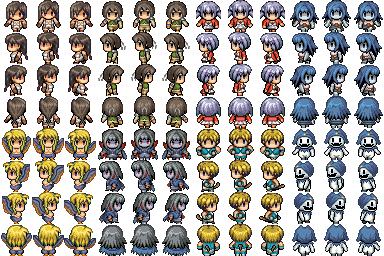
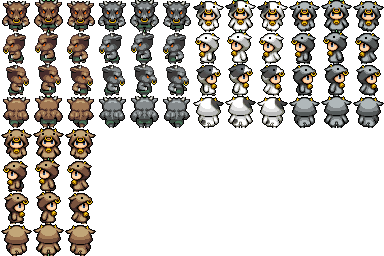
Add level effect to hero

diff --git a/src/model/monster/MonsterDen.java b/src/model/monster/MonsterDen.java
@@ -22,6 +22,7 @@ import model.items.Weapons;
 import sharedObj.IRenderable;
 import sharedObj.RenderableHolder;
 import utility.InputUtility;
+import utility.Pair;
 import utility.RandomUtility;
 import utility.ResourceLoader;
 
@@ -31,6 +32,7 @@ public class MonsterDen {
 	private static Thread monsterThread;
 	private int monsterCount;
 	private int maxMonster;
+	private int dunLvl;
 
 	public MonsterDen() {
 		monsterCount = 0;
@@ -106,7 +108,7 @@ public class MonsterDen {
 			}
 			this.monsterCount = maxMonster;
 			Dungeon.getEntitiesHolder().stream().filter(i -> i instanceof Monster).map(i -> (Monster) i)
-					.forEach(GameObject::destroyed);
+					.forEach(m->m.setAlive(false));
 			Dungeon.getEntitiesHolder().stream().filter(i -> i instanceof Monster).map(i -> (Monster) i)
 					.forEach(Dungeon::destroyEntities);
 		}else if(InputUtility.isKeyPressed(KeyCode.K)) { //instance buy staff
@@ -118,7 +120,7 @@ public class MonsterDen {
 		
 		}else if(InputUtility.isKeyPressed(KeyCode.M)) { //money hag
 			GameLogic.hero.earnMoney(999999);
-		}
+		}		
 	}
 	
 	private Image monsterImg(int i) {
@@ -127,9 +129,24 @@ public class MonsterDen {
 		return ResourceLoader.monsterImage[i-1];
 	}
 
+	public void setDunLvl(int dunLvl) {
+		this.dunLvl = dunLvl;
+	}
+	
+//	public void genMonster(int img,int row,int col,int mass,int size) {
+//		int hp = (int) (Math.pow(15.0,(3-img%3))+((4-col)*100)/(row+1));
+//		new Monster(monsterImg(img), row, col, 
+//				(mass/10 /(row+1)*(4-col)), mass, 
+//				hp, hp*(3-img%3)/20, atkType, 
+//				idleParameter, timidParaneter, persistentParameter, 
+//				eyesight, bounty, size);
+//	}
+
 	private void addMonster() throws InstantiationException, IllegalAccessException, IllegalArgumentException,
 			InvocationTargetException, SecurityException {
 		if(RenderableHolder.getInstance().size()>=35) return;
+		
+		
 		Dungeon.addEntities(new Monster(monsterImg(2), 0, 1,
 				4, 70, 100, 30, new Strength(),
 				70, 2, 50, 30, 15, 1));

diff --git a/src/Main/Main.java b/src/Main/Main.java
@@ -14,27 +14,32 @@ import view.SceneManeger;
 
 public class Main extends Application {
 	public static boolean isGameRunning;
+
 	@Override
 	public void start(Stage primaryStage) {
 		try {
-			isGameRunning=true;
+			isGameRunning = true;
 			SceneManeger.initialize(primaryStage);
 			SceneManeger.gotoScene(SceneManeger.mainScene);
-			
+
 			primaryStage.setTitle("RabbikoRPG");
 			primaryStage.centerOnScreen();
 			primaryStage.setResizable(false);
 		} catch (Exception e) {
 			e.printStackTrace();
-		}		
+		}
 	}
-	
+
 	@Override
 	public void stop() throws Exception {
-		isGameRunning=false;
-		DungeonMain.stop();
-		MonsterDen.stop();
-		Platform.exit();
+		try {
+			DungeonMain.stop();
+			MonsterDen.stop();
+		} catch (NullPointerException e) {
+		} finally {
+			isGameRunning = false;
+			Platform.exit();
+		}
 	}
 
 	public static void main(String[] args) {

diff --git a/src/model/entity/Hero.java b/src/model/entity/Hero.java
@@ -75,6 +75,7 @@ public class Hero extends DungeonableEntity<Attribute> {
 	public void update() {
 		super.update();
 		if (isAlive && dmgTimer == 0) {
+			if(GameLogic.dungeon.getLvl()%10==0) restoreHp();
 			if (InputUtility.isKeyPressed(KeyCode.W) || InputUtility.isKeyPressed(KeyCode.UP))
 				move(Entity.BACK);
 			if (InputUtility.isKeyPressed(KeyCode.S) || InputUtility.isKeyPressed(KeyCode.DOWN))
@@ -148,6 +149,11 @@ public class Hero extends DungeonableEntity<Attribute> {
 
 	public double getMaxMp() {
 		return maxMp;
+	}
+	
+	public  double getMaxHp() {
+		if(GameLogic.dungeon.getLvl()<6) return super.getMaxHp();
+		return super.getMaxHp() * (GameLogic.dungeon.getLvl()/5);
 	}
 
 	public double getCurrentMp() {

diff --git a/src/model/entity/DungeonableEntity.java b/src/model/entity/DungeonableEntity.java
@@ -97,7 +97,7 @@ public abstract class DungeonableEntity<T extends Attribute> extends Entity {
 	}
 
 	public double getMaxHp() {
-		return maxHp * atkType.getHpMultiply();
+		return maxHp * atkType.getHpMultiply() ;
 	}
 
 	public double getCurrentHp() {

diff --git a/src/model/field/Dungeon.java b/src/model/field/Dungeon.java
@@ -89,6 +89,7 @@ public class Dungeon extends Field {
 		if (lvlChangetimer == 0) {
 			lvl++;
 			lvlChangetimer = CHANGE_TIME_MAX;
+			monsterDen.setDunLvl(this.lvl);
 		}
 		
 	}
